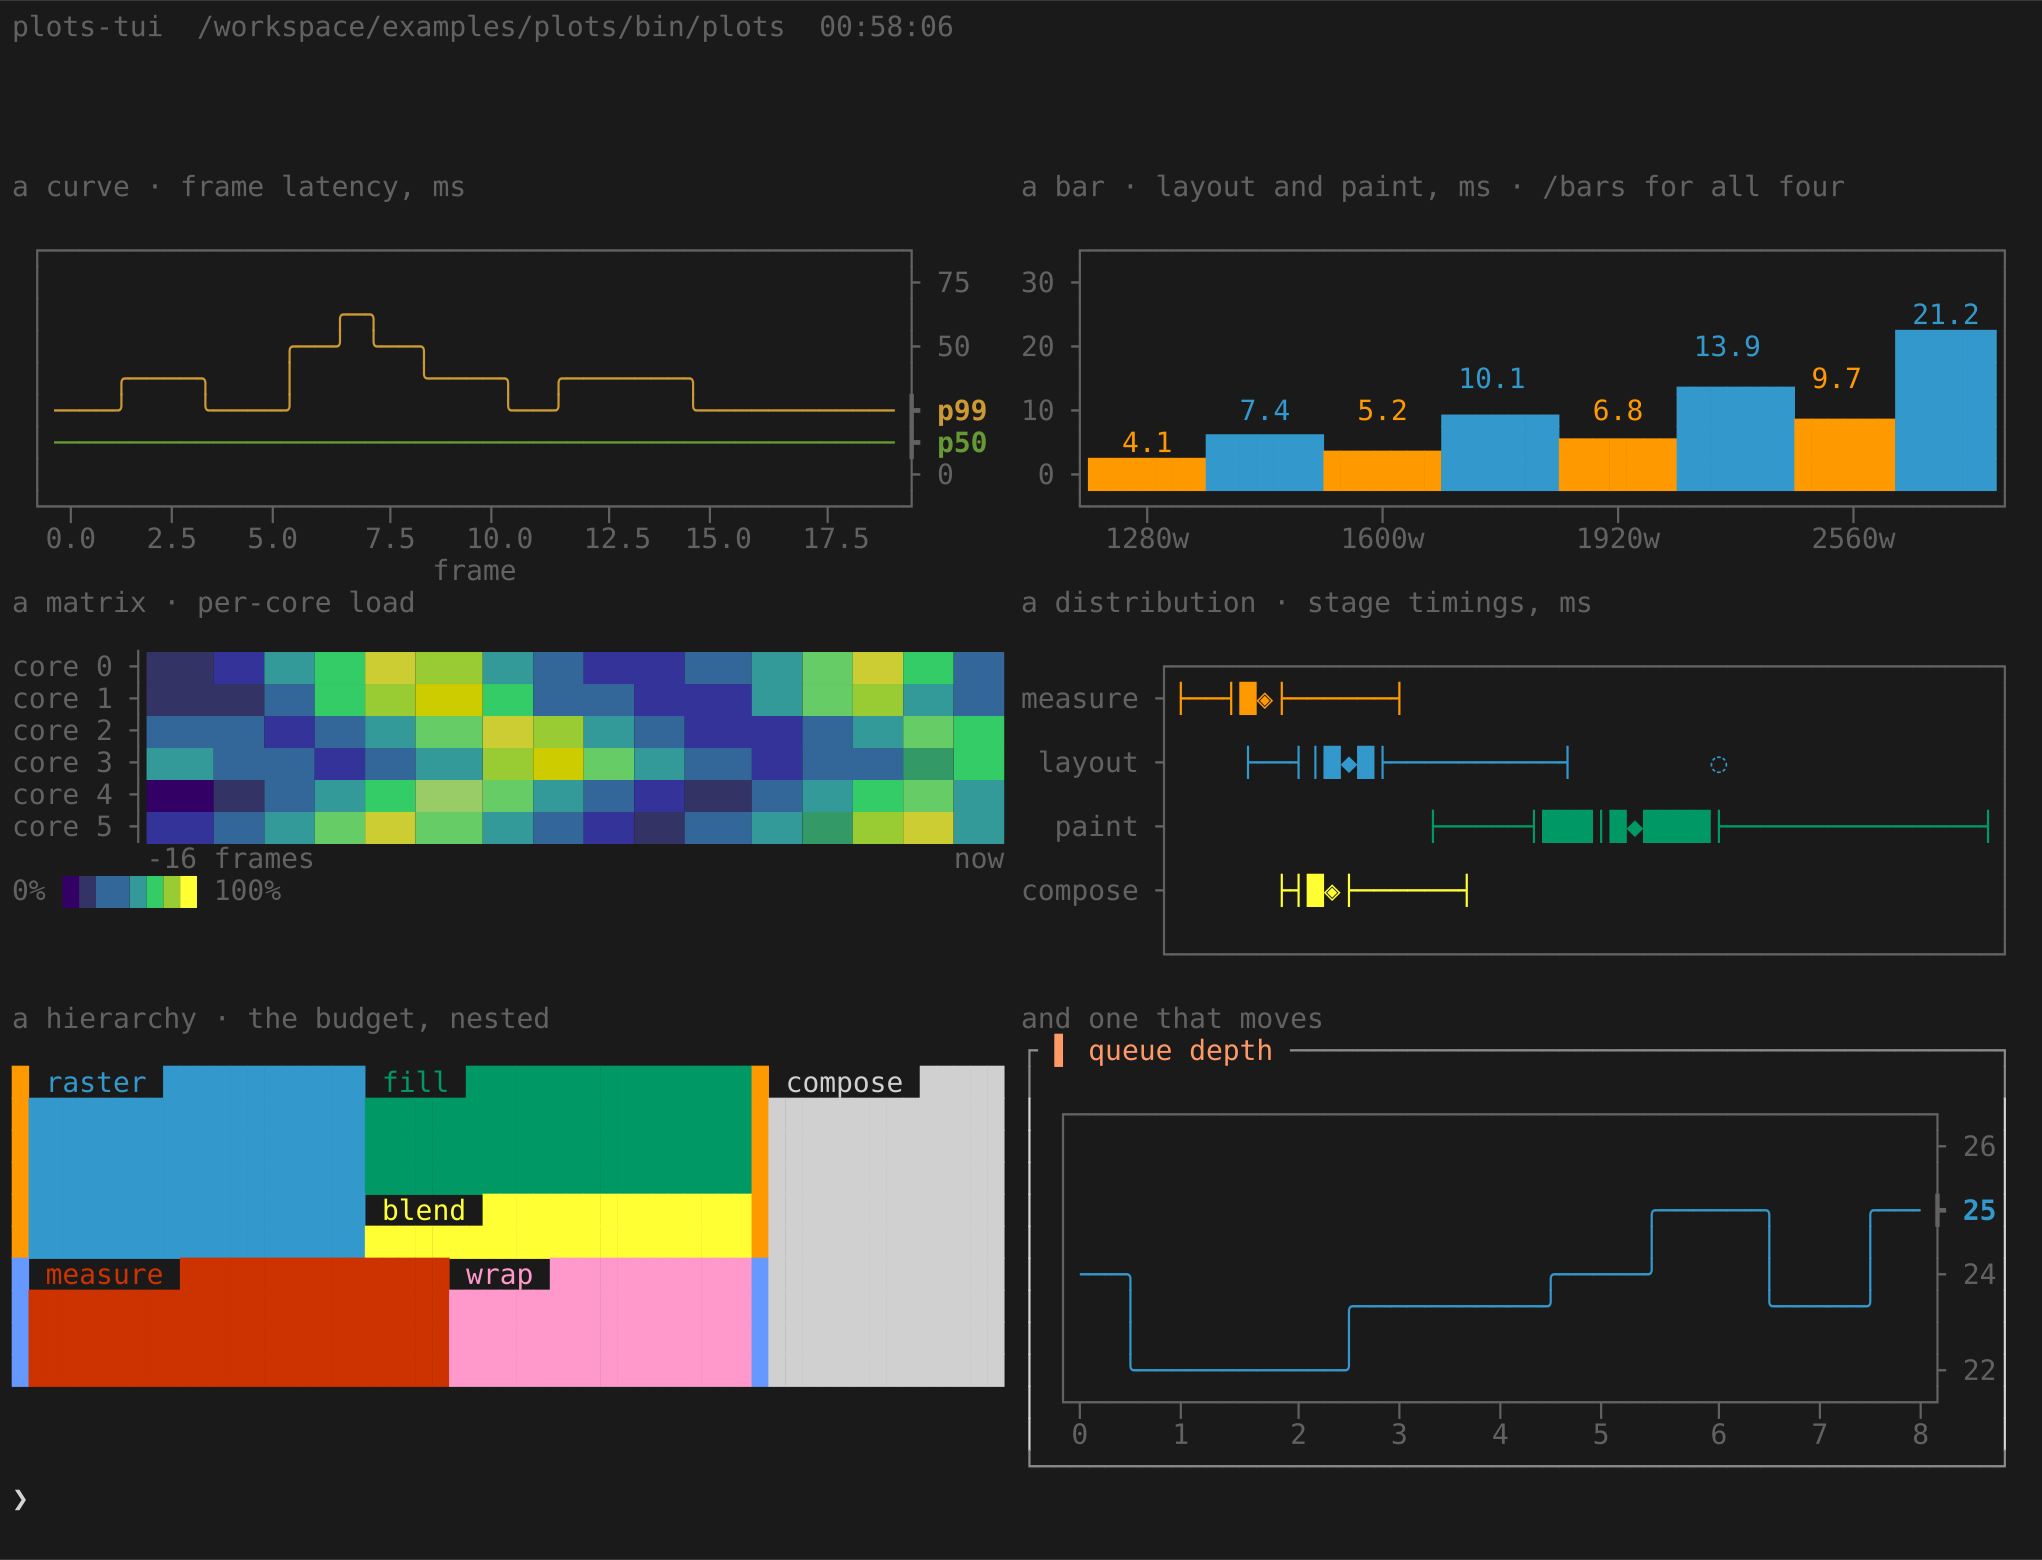
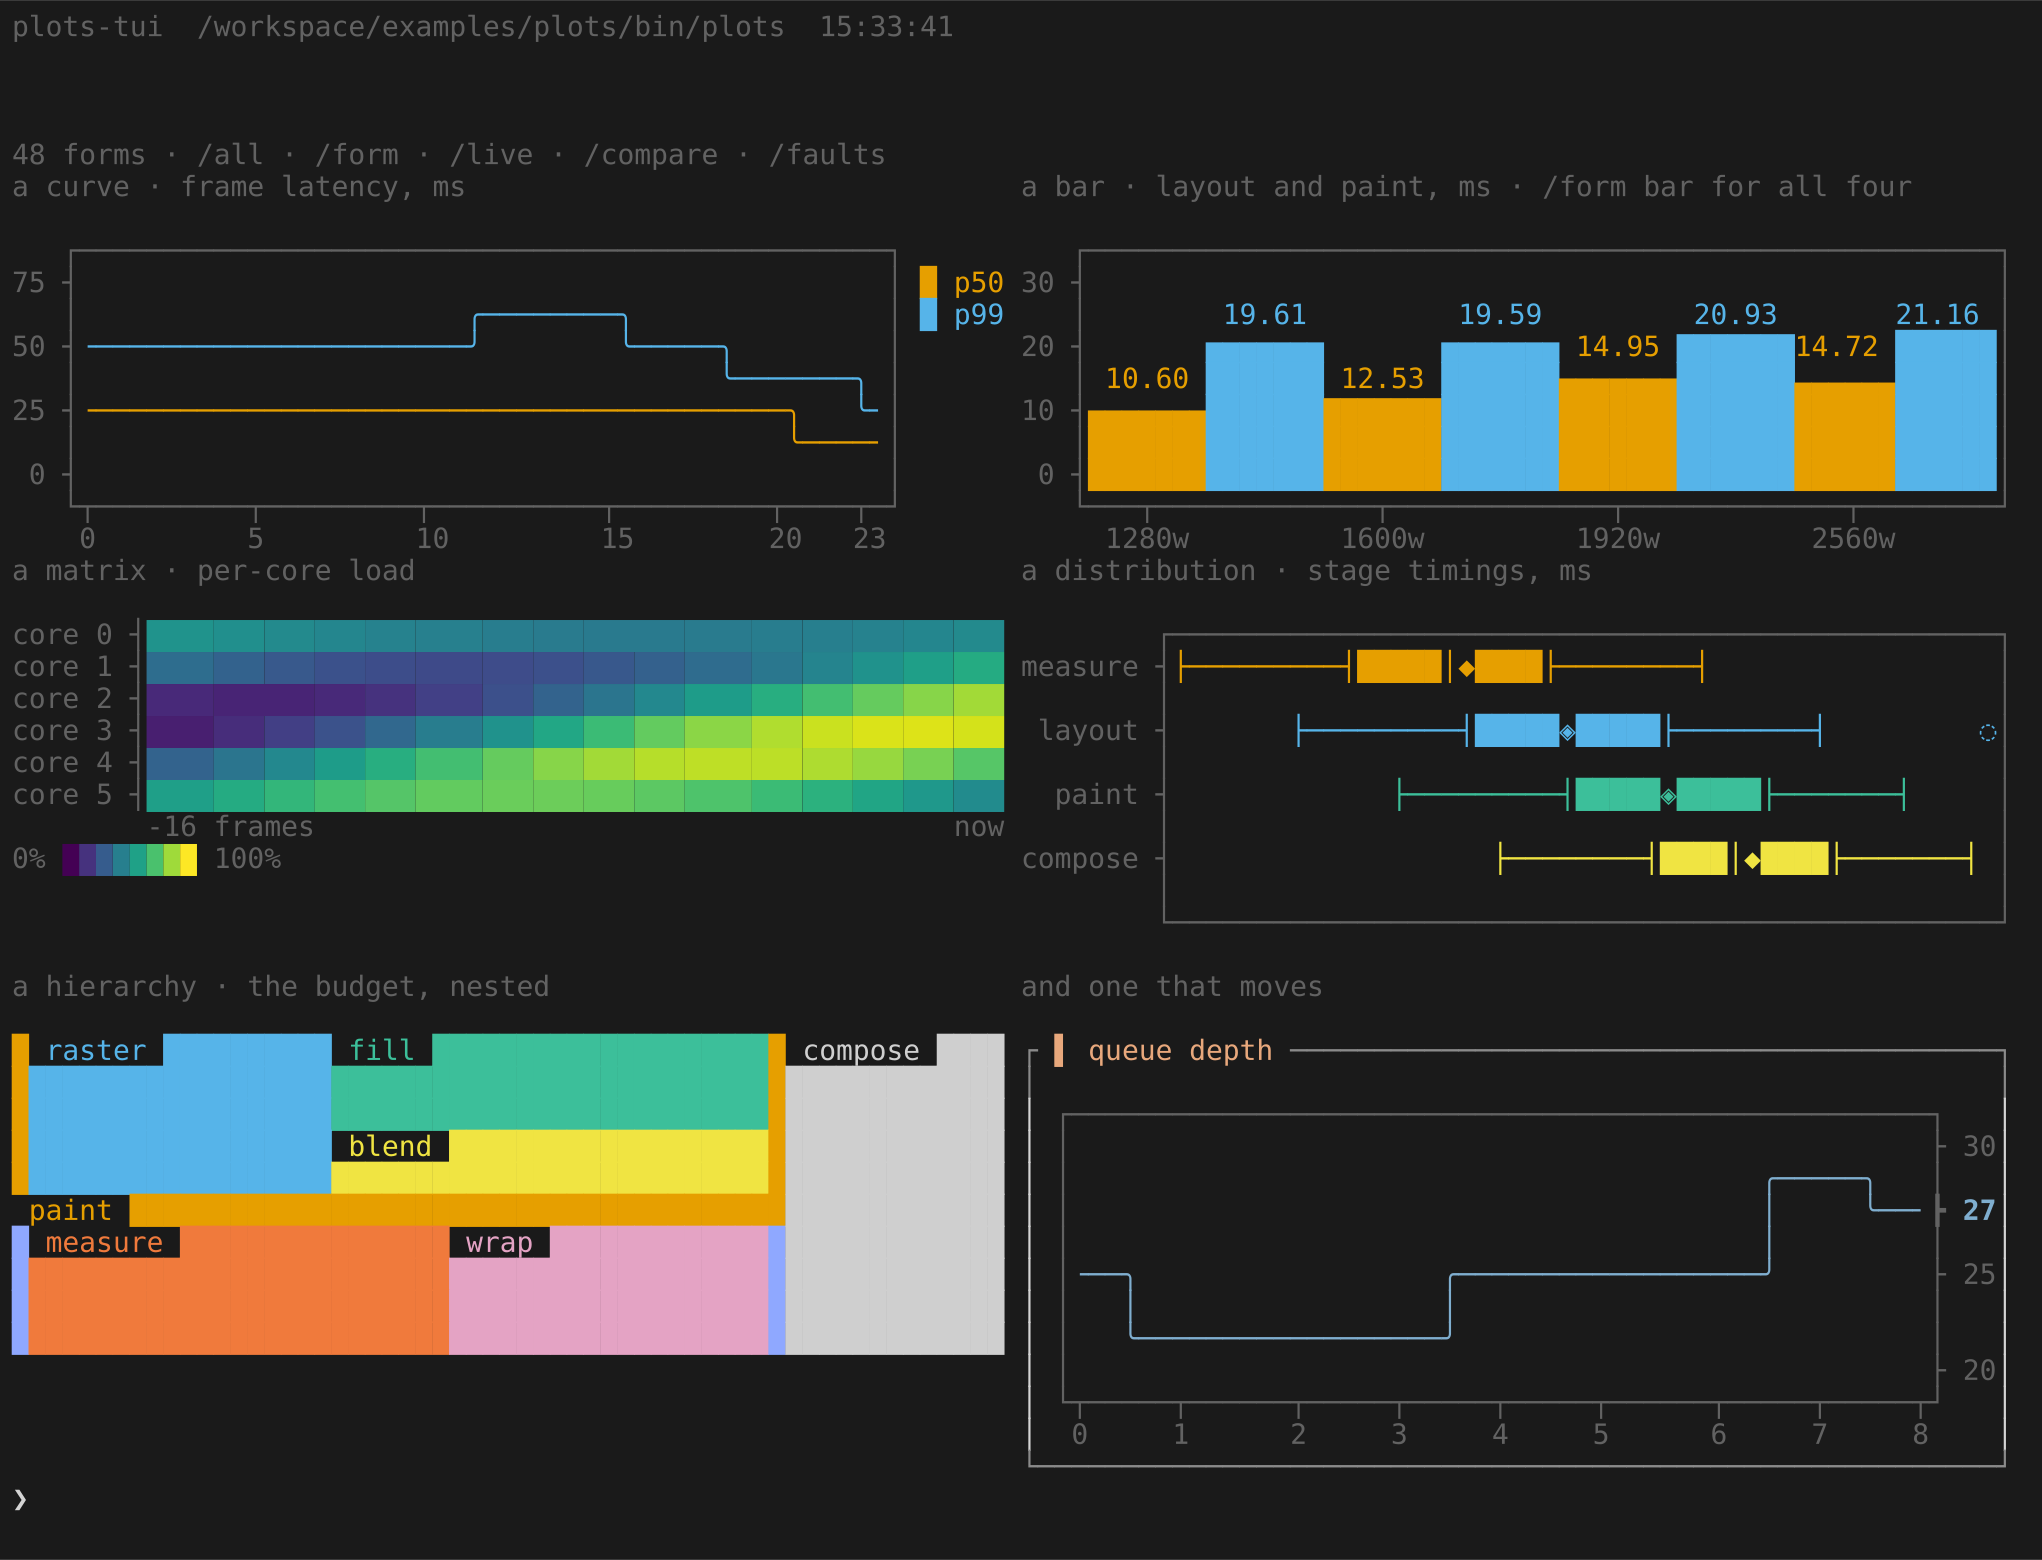
The plots demo's two pictures, regenerated at HEAD — and the verb the README named no longer exists
`frame.png` and `bars.png` re-read from a PTY at 120×48 through the catalogue's own SVG parser, the
same composition the first capture used. The README said `/bars` was horizontal; there is no `/bars`
— the figure is the last one `/form bar` draws, under its rungs, and the sentence now says so.

Claude-Session: https://claude.ai/code/session_01EYJaLA4LtyBYui6fVZnYug

diff --git a/examples/plots/README.md b/examples/plots/README.md
@@ -151,7 +151,7 @@ its neighbour — at four series with five-cell names, three ticks for four grou
 bar was the unlabelled one. And the value labels abut with no separating cell, so `4.17.4` is
 `4.1` and `7.4`.
 
-The horizontal arm of the same form gets all three right, which is why `/bars` is horizontal:
+The horizontal arm of the same form gets all three right, which is why `/form bar` closes with it — the last figure on the page, under the rungs:
 
 ![the same budget as a horizontal bar: sixteen rows, a right-hand legend naming measure, layout, paint and compose, values at each bar's end, and a final row reading "+3 more · 2560w · layout · 2560w · paint · 2560w · compose"](bars.png)
 
